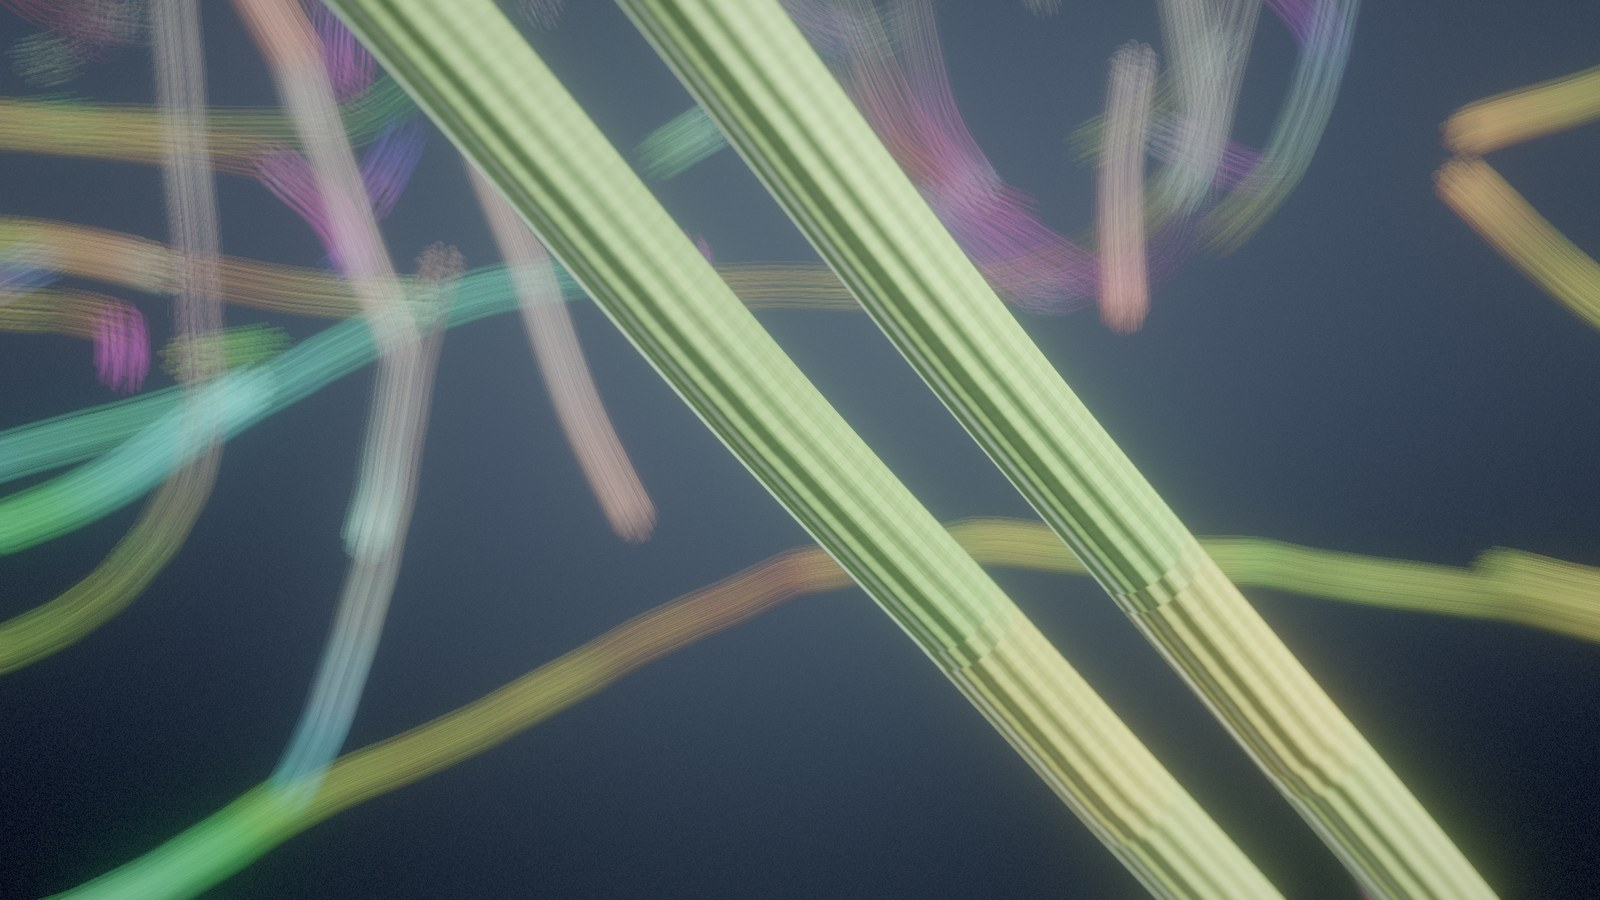
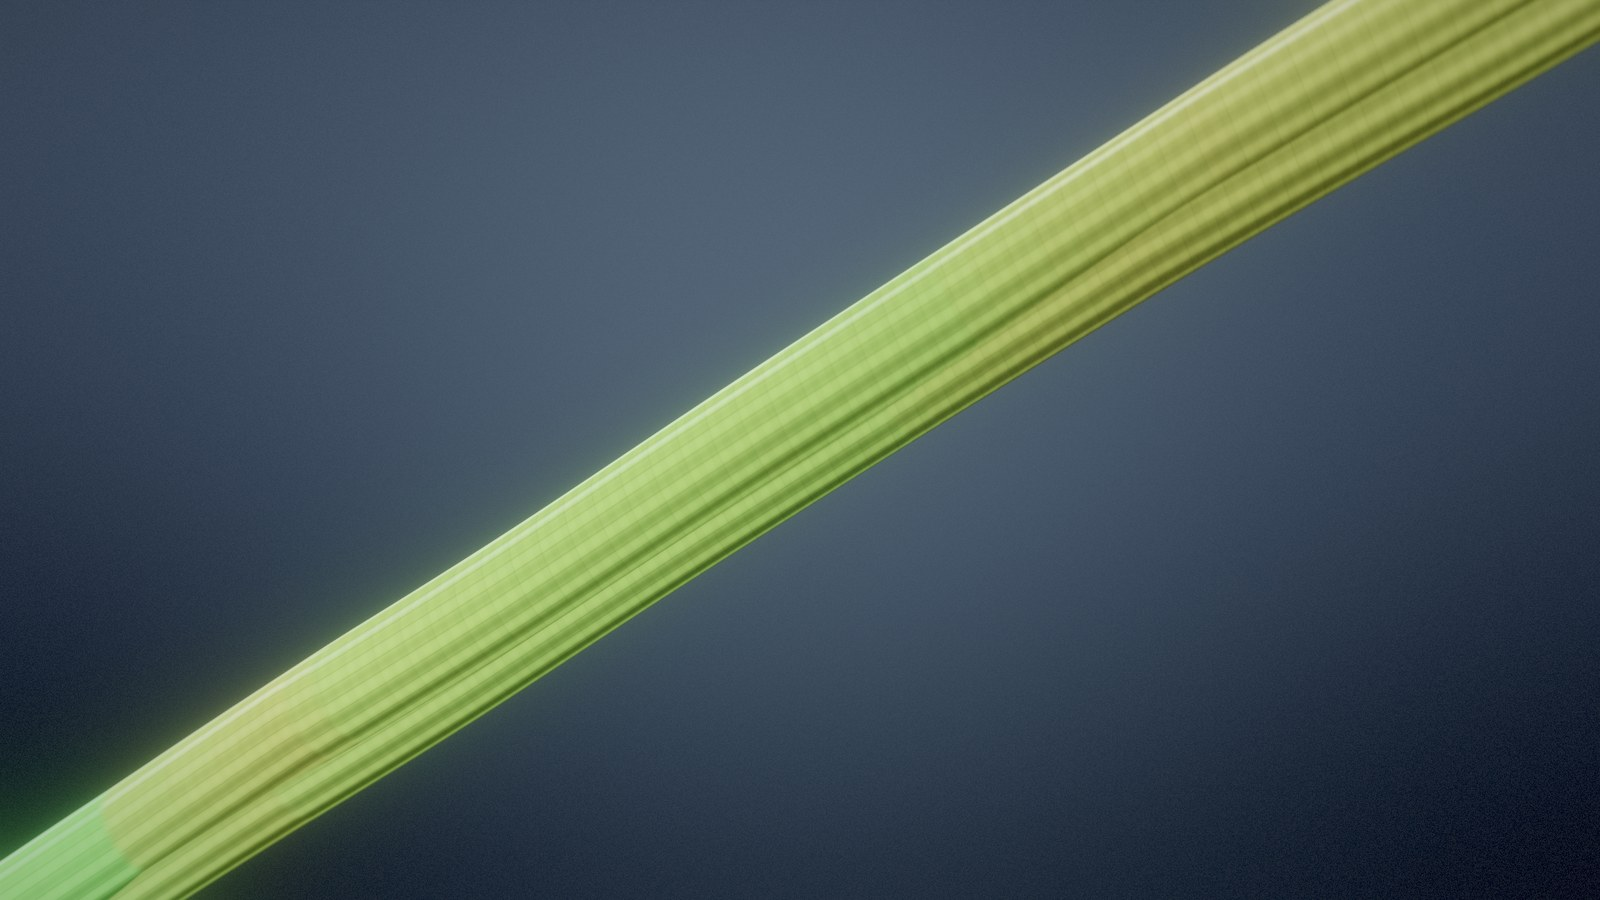
Add self_encounters switch; illustrative presets no longer self-bundle
tubulaton's neighbour search excludes only a filament's own last ten
subunits, so a tip carried round a lobe end by the membrane can meet its own
older lattice; met anti-parallel, the bundling rule hairpins it back along
itself and it coils -- not something a stiff microtubule can do.
self_encounters=0 excludes the filament's own lattice. The default (1) keeps
tubulaton's behaviour, where the effect is small (~5 000 self-contact growth
steps per 15 000 steps on a real cell), but the dense preset's gentler
membrane limit raised it to ~300 000, so dense and stress now set it to 0.
Stress alignment still rises with anisotropy without it (cos^2 0.56 -> 0.84).

README images and GIF re-rendered with the corrected presets.

diff --git a/src/sim/mod.rs b/src/sim/mod.rs
@@ -199,6 +199,8 @@ pub struct Counters {
     pub override_cut_microtubule: u64,
     pub detachements: u64,
     pub shrinkages: u64,
+    /// Encounters of a growing tip with its own filament.
+    pub self_encounters: u64,
 }
 
 /// Parameters read on the hot path, refreshed whenever the config changes.
@@ -231,6 +233,7 @@ pub struct Dyn {
     pub proba_crossmicro_cut: f64,
     pub stress_catastrophe_bias: f64,
     pub stress_severing_bias: f64,
+    pub self_encounters: bool,
     pub proba_detach: f64,
     pub proba_shrink: f64,
     pub proba_rescue: f64,
@@ -267,6 +270,7 @@ impl Dyn {
             proba_crossmicro_cut: p.get_d("proba_crossmicro_cut"),
             stress_catastrophe_bias: p.get_d("stress_catastrophe_bias"),
             stress_severing_bias: p.get_d("stress_severing_bias"),
+            self_encounters: p.get_i("self_encounters") != 0,
             proba_detach: p.get_d("proba_detachement_par_step_par_microtubule"),
             proba_shrink: p.get_d("proba_shrink"),
             proba_rescue: p.get_d("proba_rescue"),
@@ -737,6 +741,8 @@ impl Sim {
     /// excluding this filament's last ten subunits (`NN_Mt` + `testRecursif`).
     fn nn_mt(&self, plus: u32) -> Option<(f64, u32)> {
         let elems = &self.pool.elems;
+        let self_ok = self.d.self_encounters;
+        let own = elems[plus as usize].mt;
         let p = elems[plus as usize].pos;
         let mut ancestors = [NONE; 10];
         let mut a = elems[plus as usize].prev;
@@ -750,7 +756,7 @@ impl Sim {
         let r2 = self.d.r_mt * self.d.r_mt;
         let mut best = (f64::INFINITY, NONE);
         self.pool.grid.for_each_27(p, |id| {
-            if id == plus {
+            if id == plus || (!self_ok && elems[id as usize].mt == own) {
                 return;
             }
             let d = (elems[id as usize].pos - p).length_squared();
@@ -826,6 +832,9 @@ impl Sim {
         near_c: Option<(f64, u32)>,
     ) {
         self.pool.elems[el as usize].contact = true;
+        if self.pool.elems[el as usize].mt == mt.id {
+            self.counters.self_encounters += 1;
+        }
         let (s1, anc) = {
             let p = &self.pool.elems[prev as usize];
             (p.dir, p.pos)

diff --git a/src/setup.rs b/src/setup.rs
@@ -23,7 +23,15 @@ pub const NUCLEATION_PER_UM2_STEP: f64 = 0.001;
 pub fn preset(name: &str) -> anyhow::Result<Vec<String>> {
     Ok(match name {
         "calibrated" | "" => vec![],
-        "dense" => vec!["proba_crossmicro_shrink=0.4".into(), "Angle_mb_limite=1.0".into()],
+        // Also stops a filament meeting its own lattice: with the gentler
+        // membrane limit, filaments wrap round lobe tips, meet themselves
+        // anti-parallel, hairpin and coil -- an artefact of tubulaton's
+        // neighbour search, not something a stiff microtubule can do.
+        "dense" => vec![
+            "proba_crossmicro_shrink=0.4".into(),
+            "Angle_mb_limite=1.0".into(),
+            "self_encounters=0".into(),
+        ],
         // dense, plus steering by the stress field (use with --shape-stress
         // or another strain_0 field). The steering weight scales linearly
         // with the local field magnitude -- the anisotropy for the shape
@@ -35,6 +43,7 @@ pub fn preset(name: &str) -> anyhow::Result<Vec<String>> {
         "stress" => vec![
             "proba_crossmicro_shrink=0.4".into(),
             "Angle_mb_limite=1.0".into(),
+            "self_encounters=0".into(),
             "part_influence_influence=0.005".into(),
             "influence_ref=1.0".into(),
         ],

diff --git a/src/main.rs b/src/main.rs
@@ -139,7 +139,7 @@ enum Cmd {
         /// Cut the cell open above this fraction of its height.
         #[arg(long, default_value_t = 1.0)]
         clip: f32,
-        /// Aim at the middle of the longest microtubule.
+        /// Aim at the middle of the longest microtubule (at the first frame).
         #[arg(long)]
         look_at_mt: bool,
         /// Camera distance in um (overrides --zoom).
@@ -418,7 +418,7 @@ fn main() -> Result<()> {
                 }
                 cam.yaw += orbit.to_radians() * if f > 0 { 1.0 } else { 0.0 };
                 let snap = scene::snapshot(&sim, &frame, stride);
-                if look_at_mt {
+                if look_at_mt && f == 0 {
                     if let Some(mt) = sim.mts.values().max_by_key(|m| m.body.len()) {
                         let mid = mt.body[mt.body.len() / 2];
                         cam.target = frame.to_render(sim.pool.elems[mid as usize].pos);

diff --git a/src/params.rs b/src/params.rs
@@ -200,6 +200,12 @@ impl Params {
             ("Bound_Ind", -1),
             ("m_hashContour_resolution", 25),
             ("seed", 0),
+            // 1 (tubulaton's behaviour): a growing tip can meet and bundle
+            // with older parts of its own filament, beyond its last ten
+            // subunits. That lets a filament curved round a lobe tip hairpin
+            // back along itself and coil, which a stiff microtubule cannot
+            // do. 0 excludes the filament's own lattice from the search.
+            ("self_encounters", 1),
         ] {
             i.insert(k.to_string(), v);
         }

diff --git a/examples/diag.rs b/examples/diag.rs
@@ -25,6 +25,7 @@ fn main() -> anyhow::Result<()> {
         c.encounter_bundle_grow,
         c.detachements
     );
+    println!("self-encounters {}", sim.counters.self_encounters);
     let l = sim.lengths();
     let mean = l.iter().sum::<usize>() as f64 / l.len() as f64 / 125.0;
     println!(

diff --git a/README.md b/README.md
@@ -63,8 +63,23 @@ at up to 4× with up to 1024 samples), `c` to switch look.
 | preset | what it is |
 |---|---|
 | `calibrated` (default) | pavesim's calibration: 1 step = 0.1 s at 0.08 µm/s growth, measured catastrophe, rescue and nucleation rates |
-| `dense` | illustrative: catastrophe on 40 % of steep encounters (Dixit & Cyr 2004) and a 57° membrane turn limit instead of 40°. In lobed cells the 40° rule causes most catastrophes, so this array is about 4× denser |
+| `dense` | illustrative: catastrophe on 40 % of steep encounters (Dixit & Cyr 2004), a 57° membrane turn limit instead of 40°, and no self-encounters (`self_encounters=0`, see below). In lobed cells the 40° rule causes most catastrophes, so this array is about 3× denser |
 | `stress` | `dense` plus steering by the stress field, with weight proportional to the local field magnitude (`part_influence_influence=0.005`, `influence_ref=1`) |
+
+## Self-encounters
+
+tubulaton's neighbour search excludes only a filament's own last ten
+subunits, so a growing tip can meet and bundle with older parts of its own
+filament. If it meets them anti-parallel, the bundling rule turns it back
+along itself: a hairpin that then follows itself into a coil. A microtubule,
+with a persistence length of millimetres, cannot curve back on itself on this
+scale; the hairpins come from membrane guidance carrying the tip round a
+lobe end. `self_encounters=0` excludes a filament's own lattice from the
+search. The default (1) keeps tubulaton's behaviour, where it is a small
+effect: about 5 000 self-contact growth steps in 15 000 steps of the
+calibrated set on a real cell, against about 300 000 with the gentler
+membrane limit of `dense`, which is why both illustrative presets switch it
+off.
 
 ## Stress-dependent alignment
 
@@ -85,8 +100,8 @@ between cortical subunits and the stress axis rises with anisotropy:
 
 | local anisotropy | 0–0.25 | 0.25–0.5 | 0.5–0.75 | 0.75–1 |
 |---|---|---|---|---|
-| no coupling | 0.49 | 0.47 | 0.51 | 0.54 |
-| `stress` preset | 0.56 | 0.68 | 0.77 | 0.83 |
+| no coupling | 0.51 | 0.55 | 0.51 | 0.48 |
+| `stress` preset | 0.56 | 0.67 | 0.75 | 0.84 |
 
 (0.5 is random in the plane; `cargo run --release --example stress_align`.)
 

diff --git a/PORTING.md b/PORTING.md
@@ -67,6 +67,13 @@ well-defined result.
 * The `stop` parameter is not reset by the membrane-angle rule (a leftover
   debugging hook in `grow_plus_contact_mb`).
 
+## Additions
+
+* `self_encounters` (default 1, tubulaton's behaviour). Set to 0 to stop a
+  growing tip bundling with its own older lattice, which produces hairpins
+  and coils no stiff microtubule could form (see the README).
+* `--shape-stress`: a stress field derived from the cell outline.
+
 ## Not ported yet
 
 * Moving and deforming contours: `Movement_Speed`, `UpdateNextTime`,
